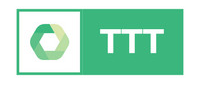
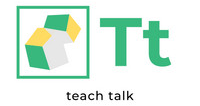
[ks52team02 - JMH] 로고 이미지 수정 detail : favicon이랑 로고 수정

diff --git a/ks52team02/src/main/resources/templates/member/layouts/layout.html b/ks52team02/src/main/resources/templates/member/layouts/layout.html
@@ -10,7 +10,7 @@
 	<meta name="description" content="" />
 	<meta name="viewport" content="width=device-width, initial-scale=1" />
 	<!-- Favicon -->
-    <link rel="shortcut icon" type="image/x-icon" href="/common/img/favicon.png" />
+    <link rel="shortcut icon" type="image/x-icon" href="/common/img/Preview.png" />
     <!-- Template CSS -->
     <link rel="stylesheet" href="/member/css/plugins/animate.min.css" />
 	<link rel="stylesheet" href="/member/css/plugins/slider-range.css" />

diff --git a/ks52team02/src/main/resources/templates/manager/layouts/layout.html b/ks52team02/src/main/resources/templates/manager/layouts/layout.html
@@ -8,7 +8,7 @@
     <meta name="description" content="" />
     <meta name="viewport" content="width=device-width, initial-scale=1" />
     <!-- Favicon -->
-    <link rel="shortcut icon" type="image/x-icon" href="/common/img/favicon.png" />
+    <link rel="shortcut icon" type="image/x-icon" href="/common/img/Preview.png" />
     <!-- Template CSS -->
     <link href="/manager/css/main.css?v=1.1" rel="stylesheet" type="text/css" />
 </head>
